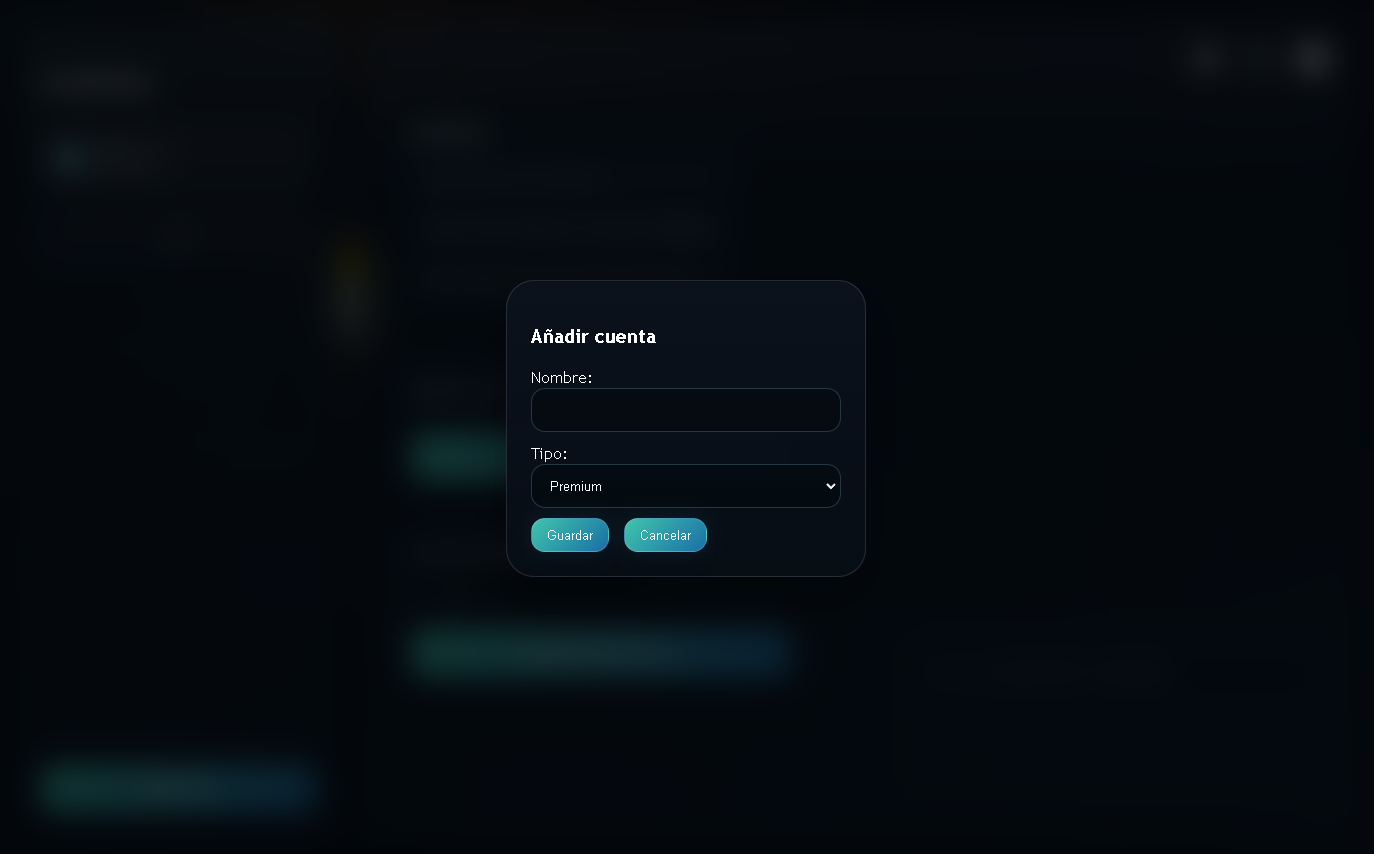
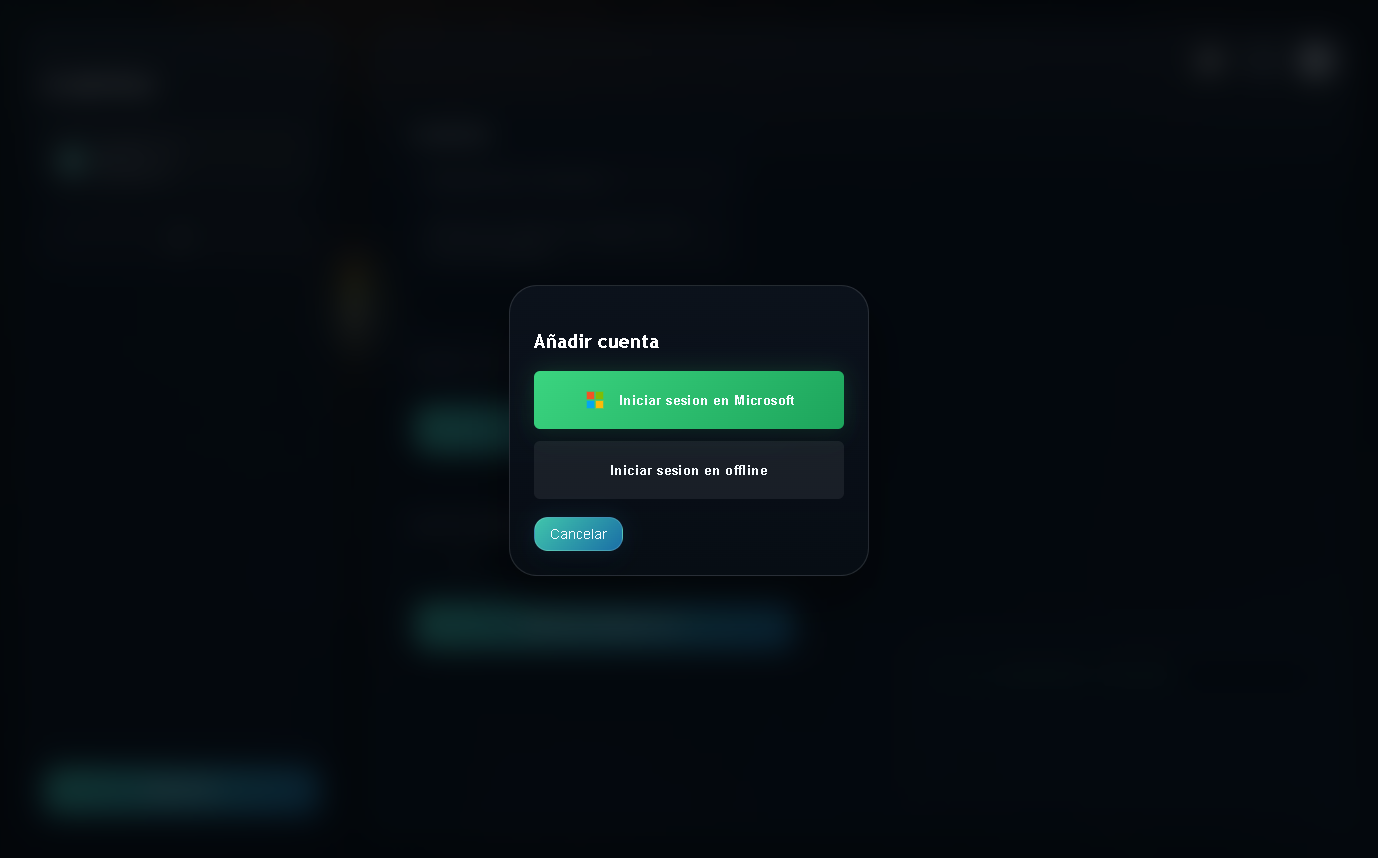
Cambios en notas y fotos del menu

Changed region(s): [[0.3057, 0.3653, 0.6114, 0.6698], [0.3057, 0.7611, 0.5808, 0.7916], [0.3057, 0.7002, 0.4891, 0.7307]]

diff --git a/Suha-Page/v0-10-0.html b/Suha-Page/v0-10-0.html
@@ -13,6 +13,9 @@
         <p>Hemos notado que al actualizar aveces el launcher se sentia muy invasivo con los permisos que solicitaba. Así que cambiamos la forma en la que se realiza la actualización.</p>
         <h1>Mejoras en sistema de skins.</h1>
         <p> Ahora poner skins para los no premium es más sencillo.</p>
+        <h1>Sistema de usuarios</h1>
+        <p> Hemos mejorado el sistema de inicio de sesión. Antes se veia mas simple, ponias tu usario y si elegias premium te abria el menu de inicio de sesión. Ahora directamente te aparece como quieres iniciar antes de poner tu nombre de usuario</p>
+        <img src="imagenes/usuarios.png" alt="Imagen de SuHa-Launcher">
     </div>
 </div>
 <div id="selecciones">
@@ -52,6 +55,12 @@
     }
     body::-webkit-scrollbar-thumb:hover {
     background-color: white;
+    }
+    #contenido img {
+        width: 800px;
+        height: auto;
+        margin-top: 20px;
+        display: block;
     }
     #contenido {
         max-width: 1300px;
